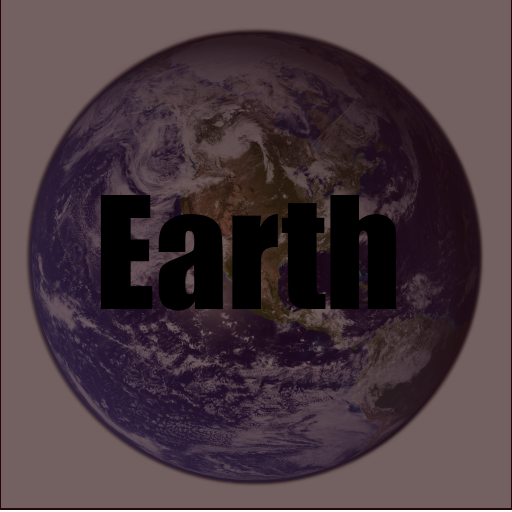
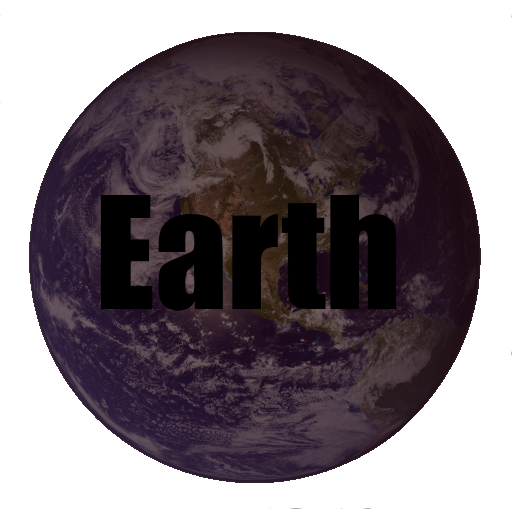
betere foto, tablet support en to do list

diff --git a/opmaak.css b/opmaak.css
@@ -489,3 +489,105 @@ input[type=checkbox]:checked ~ #menu{
 
 
 }
+
+@media screen and (max-width : 1024px){
+
+
+
+    ul {
+        position: static;
+        display: none;
+    }
+
+    li {
+        margin-bottom: 1px;
+    }
+
+    ul li, nav li a {
+        width: 100%;
+    }
+
+    /*De show menu link*/
+    .show-menu {
+        display:block;
+    }
+
+    /* De overige elementen worden responsive gemaakt */
+    iframe {
+      display: block;
+      margin: 0 auto;
+      margin-bottom: 5%;
+      border: 2px solid rgb(255,255,255);
+      height: 40%;
+      width: 90%;
+    }
+
+    .articlecontainer {
+      width: 90%;
+      margin: 0 auto;
+      margin-bottom: 2%;
+      margin-top: 2%;
+
+    }
+
+    .articlecontainer img {
+      width: 90%;
+      height: 60%;
+      float: right;
+    }
+
+
+
+    .container {
+      width: 90%;
+      margin: 0 auto;
+      margin-bottom: 4%;
+      margin-top: 2%;
+
+    }
+
+    .containerinfo {
+      width: 90%;
+      margin: 0 auto;
+      margin-bottom: 4%;
+      margin-top: 2%;
+
+    }
+
+    .logo img  {
+      width: 60%;
+      height: 50%;
+      position: absolute;
+      top: 50%;
+      left: 50%;
+      transform: translate(-50%, -50%);
+    }
+
+    #legediv {
+      width: 100%;
+      height: 0;
+      margin: 0;
+      padding: 0;
+    }
+
+    body, html {
+      background-image: url(starsbg.jpg);
+    }
+
+
+    .containerflex {
+      flex-direction: column;
+    }
+
+    .containerflex img {
+      align-self: center;
+      margin-right: 0px;
+    }
+
+    .flextext p {
+      line-height: 150%;
+    }
+
+
+
+}
